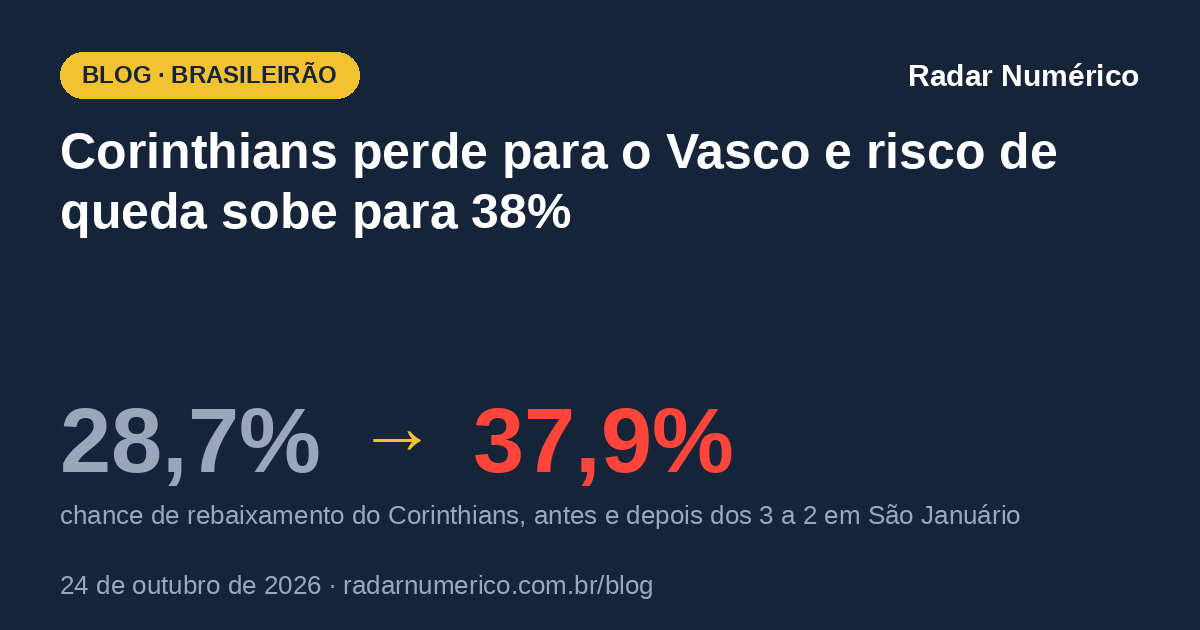
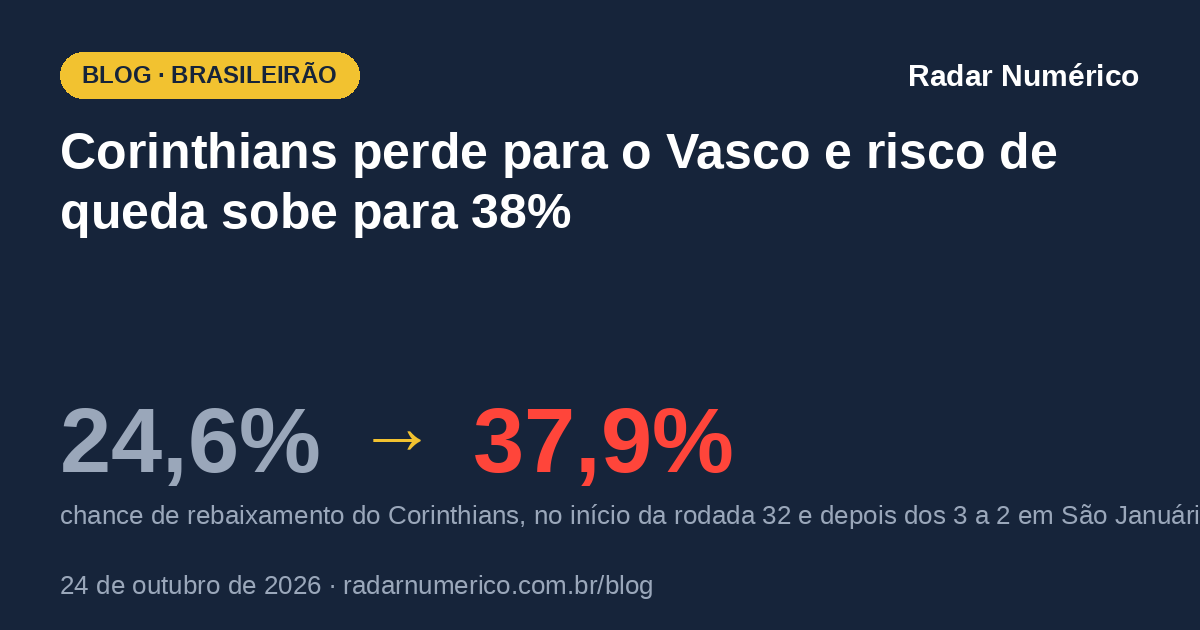
Blog: artigo Corinthians/Vasco compara com o inicio da rodada 32

Changed region(s): [[0.4317, 0.7841, 1.0, 0.8444], [0.0925, 0.6333, 0.2158, 0.754]]

diff --git a/blog/brasileirao/corinthians-vasco-rebaixamento/index.html b/blog/brasileirao/corinthians-vasco-rebaixamento/index.html
@@ -5,19 +5,19 @@
 <meta name="viewport" content="width=device-width, initial-scale=1">
 <meta name="robots" content="max-image-preview:large">
 <title>Corinthians perde para o Vasco e risco de queda sobe para 38%</title>
-<meta name="description" content="Vasco 3x2 Corinthians: o risco de queda do Corinthians vai de 28,7% para 37,9% e o do Vasco cai para 3,0%. Quantos pontos livram.">
+<meta name="description" content="Vasco 3x2 Corinthians: o risco de queda do Corinthians vai de 24,6% para 37,9% na rodada e o do Vasco cai a 3,0%. Quantos pontos livram.">
 <link rel="canonical" href="https://radarnumerico.com.br/blog/brasileirao/corinthians-vasco-rebaixamento/">
 <meta property="og:type" content="article">
 <meta property="og:site_name" content="Radar Numérico">
 <meta property="og:locale" content="pt_BR">
 <meta property="og:title" content="Corinthians perde para o Vasco e risco de queda sobe para 38%">
-<meta property="og:description" content="Vasco 3x2 Corinthians: o risco de queda do Corinthians vai de 28,7% para 37,9% e o do Vasco cai para 3,0%. Quantos pontos livram.">
+<meta property="og:description" content="Vasco 3x2 Corinthians: o risco de queda do Corinthians vai de 24,6% para 37,9% na rodada e o do Vasco cai a 3,0%. Quantos pontos livram.">
 <meta property="og:url" content="https://radarnumerico.com.br/blog/brasileirao/corinthians-vasco-rebaixamento/">
 <meta property="og:image" content="https://radarnumerico.com.br/blog/brasileirao/corinthians-vasco-rebaixamento/og.png">
 <meta property="og:image:width" content="1200">
 <meta property="og:image:height" content="630">
 <meta name="twitter:card" content="summary_large_image">
-<script type="application/ld+json">{"@context": "https://schema.org", "@type": "NewsArticle", "headline": "Corinthians perde para o Vasco e risco de queda sobe para 38%", "description": "Vasco 3x2 Corinthians: o risco de queda do Corinthians vai de 28,7% para 37,9% e o do Vasco cai para 3,0%. Quantos pontos livram.", "inLanguage": "pt-BR", "datePublished": "2026-10-24T21:30:00-03:00", "dateModified": "2026-10-24T21:30:00-03:00", "author": {"@type": "Organization", "name": "Radar Numérico", "url": "https://radarnumerico.com.br/"}, "publisher": {"@type": "Organization", "name": "Radar Numérico", "url": "https://radarnumerico.com.br/", "logo": {"@type": "ImageObject", "url": "https://radarnumerico.com.br/logo.png"}}, "mainEntityOfPage": "https://radarnumerico.com.br/blog/brasileirao/corinthians-vasco-rebaixamento/", "image": ["https://radarnumerico.com.br/blog/brasileirao/corinthians-vasco-rebaixamento/og.png"], "articleSection": "Brasileirão", "isPartOf": {"@type": "Blog", "name": "Blog do Radar Numérico", "url": "https://radarnumerico.com.br/blog/"}}</script>
+<script type="application/ld+json">{"@context": "https://schema.org", "@type": "NewsArticle", "headline": "Corinthians perde para o Vasco e risco de queda sobe para 38%", "description": "Vasco 3x2 Corinthians: o risco de queda do Corinthians vai de 24,6% para 37,9% na rodada e o do Vasco cai a 3,0%. Quantos pontos livram.", "inLanguage": "pt-BR", "datePublished": "2026-10-24T21:30:00-03:00", "dateModified": "2026-10-24T21:30:00-03:00", "author": {"@type": "Organization", "name": "Radar Numérico", "url": "https://radarnumerico.com.br/"}, "publisher": {"@type": "Organization", "name": "Radar Numérico", "url": "https://radarnumerico.com.br/", "logo": {"@type": "ImageObject", "url": "https://radarnumerico.com.br/logo.png"}}, "mainEntityOfPage": "https://radarnumerico.com.br/blog/brasileirao/corinthians-vasco-rebaixamento/", "image": ["https://radarnumerico.com.br/blog/brasileirao/corinthians-vasco-rebaixamento/og.png"], "articleSection": "Brasileirão", "isPartOf": {"@type": "Blog", "name": "Blog do Radar Numérico", "url": "https://radarnumerico.com.br/blog/"}}</script>
 <link rel="icon" type="image/png" href="/favicon.png">
 <link rel="apple-touch-icon" href="/apple-touch-icon.png">
 <link rel="preconnect" href="https://fonts.googleapis.com">
@@ -97,11 +97,11 @@ svg.pos .p1,.legenda i.p1{fill:var(--azul);background:var(--azul)}svg.pos .g6,.l
 <article>
 <div class="kicker"><a href="/blog/">Blog</a> · <a href="/blog/#brasileirao">Brasileirão</a></div>
 <h1>Corinthians perde para o Vasco e risco de queda sobe para 38%</h1>
-<p class="sub">A virada do Vasco no fim, por 3 a 2 em São Januário, levou o Corinthians de 28,7% para 37,9% de chance de rebaixamento, o maior valor do ano. O Vasco caiu de 8,9% para 3,0%.</p>
+<p class="sub">Na rodada 32, a chance de rebaixamento do Corinthians foi de 24,6% para 37,9%, o maior valor do ano; só a virada do Vasco no fim somou 9,2 pontos. O Vasco caiu de 7,4% para 3,0%.</p>
 <div class="byline"><span>Por <b>Equipe Radar Numérico</b></span><span>24 de outubro de 2026 às 21h30</span><span>Rodada 32</span></div>
 <p>O Vasco virou o jogo nos minutos finais e venceu o Corinthians por 3 a 2 em São Januário, na noite deste sábado (24/10), pela 32ª rodada. O Corinthians chegou a estar na frente no segundo tempo, mas sofreu dois gols de Marino Hinestroza, aos 43 e aos 45 minutos. A derrota manteve o time com 33 pontos, em 17º, dentro da zona de rebaixamento.</p>
-<p>Pelo modelo do Radar Numérico, a chance de rebaixamento do Corinthians subiu de 28,7% para <strong>37,9%</strong>: 9,2 pontos percentuais a mais em um jogo. Do outro lado, o Vasco chegou a 38 pontos e viu o risco cair de 8,9% para <strong>3,0%</strong>.</p>
-<figure class="graf"><figcaption><b>Chance de rebaixamento antes e depois de Palmeiras 2×0 Bragantino</b><span>Quem já está matematicamente rebaixado fica de fora. Barra clara: antes · barra escura: depois.</span></figcaption><div class="barras dupla"><div class="nome"><small>18º</small><span class="esc"><i style="background:#0099DC;color:#fff;border-color:#111111">GRE</i></span>Grêmio</div><div class="trilhos"><div class="trilho"><div class="fill antes" style="width:83.7%"></div></div><div class="trilho"><div class="fill" style="width:83.4%"></div></div></div><div class="val"><small>83,7%</small>83,4%<span class="chip bom">−0,3 p.p.</span></div><div class="nome"><small>17º</small><span class="esc"><i style="background:#111111;color:#fff;border-color:#FFFFFF">COR</i></span>Corinthians</div><div class="trilhos"><div class="trilho"><div class="fill antes" style="width:28.7%"></div></div><div class="trilho"><div class="fill" style="width:37.9%"></div></div></div><div class="val"><small>28,7%</small>37,9%<span class="chip ruim">+9,2 p.p.</span></div><div class="nome"><small>16º</small><span class="esc"><i style="background:#E30613;color:#fff;border-color:#FFFFFF">INT</i></span>Internacional</div><div class="trilhos"><div class="trilho"><div class="fill antes" style="width:31.8%"></div></div><div class="trilho"><div class="fill" style="width:30.7%"></div></div></div><div class="val"><small>31,8%</small>30,7%<span class="chip bom">−1,1 p.p.</span></div><div class="nome"><small>15º</small><span class="esc"><i style="background:#FFD200;color:#15171C;border-color:#008A3E">MIR</i></span>Mirassol</div><div class="trilhos"><div class="trilho"><div class="fill antes" style="width:20.1%"></div></div><div class="trilho"><div class="fill" style="width:19.4%"></div></div></div><div class="val"><small>20,1%</small>19,4%<span class="chip bom">−0,7 p.p.</span></div><div class="nome"><small>14º</small><span class="esc"><i style="background:#E30613;color:#fff;border-color:#111111">VIT</i></span>Vitória</div><div class="trilhos"><div class="trilho"><div class="fill antes" style="width:13.6%"></div></div><div class="trilho"><div class="fill" style="width:12.8%"></div></div></div><div class="val"><small>13,6%</small>12,8%<span class="chip bom">−0,7 p.p.</span></div><div class="nome"><small>12º</small><span class="esc"><i style="background:#006E4C;color:#fff;border-color:#FFFFFF">CFC</i></span>Coritiba</div><div class="trilhos"><div class="trilho"><div class="fill antes" style="width:9.9%"></div></div><div class="trilho"><div class="fill" style="width:9.4%"></div></div></div><div class="val"><small>9,9%</small>9,4%<span class="chip bom">−0,5 p.p.</span></div><div class="nome"><small>11º</small><span class="esc"><i style="background:#111111;color:#fff;border-color:#FFFFFF">BOT</i></span>Botafogo</div><div class="trilhos"><div class="trilho"><div class="fill antes" style="width:3.4%"></div></div><div class="trilho"><div class="fill" style="width:3.4%"></div></div></div><div class="val"><small>3,4%</small>3,4%</div><div class="nome"><small>13º</small><span class="esc"><i style="background:#FFFFFF;color:#15171C;border-color:#111111">VAS</i></span>Vasco</div><div class="trilhos"><div class="trilho"><div class="fill antes" style="width:8.9%"></div></div><div class="trilho"><div class="fill" style="width:3.0%"></div></div></div><div class="val"><small>8,9%</small>3,0%<span class="chip bom">−5,9 p.p.</span></div></div></figure>
+<p>Pelo modelo do Radar Numérico, a chance de rebaixamento do Corinthians foi de 24,6%, no início da rodada, para <strong>37,9%</strong>: 13,3 pontos percentuais a mais. Os jogos da tarde, com a vitória do Internacional sobre o Botafogo, já tinham levado o risco a 28,7%; a derrota em São Januário somou outros 9,2 pontos. Do outro lado, o Vasco chegou a 38 pontos e viu o risco cair de 7,4%, no início da rodada, para <strong>3,0%</strong>.</p>
+<figure class="graf"><figcaption><b>Chance de rebaixamento no início da rodada 32 e agora</b><span>Quem já está matematicamente rebaixado fica de fora. Barra clara: antes da rodada 32 · barra escura: atualização de 24/10 às 20h55.</span></figcaption><div class="barras dupla"><div class="nome"><small>18º</small><span class="esc"><i style="background:#0099DC;color:#fff;border-color:#111111">GRE</i></span>Grêmio</div><div class="trilhos"><div class="trilho"><div class="fill antes" style="width:84.0%"></div></div><div class="trilho"><div class="fill" style="width:83.4%"></div></div></div><div class="val"><small>84,0%</small>83,4%<span class="chip bom">−0,6 p.p.</span></div><div class="nome"><small>17º</small><span class="esc"><i style="background:#111111;color:#fff;border-color:#FFFFFF">COR</i></span>Corinthians</div><div class="trilhos"><div class="trilho"><div class="fill antes" style="width:24.6%"></div></div><div class="trilho"><div class="fill" style="width:37.9%"></div></div></div><div class="val"><small>24,6%</small>37,9%<span class="chip ruim">+13,3 p.p.</span></div><div class="nome"><small>16º</small><span class="esc"><i style="background:#E30613;color:#fff;border-color:#FFFFFF">INT</i></span>Internacional</div><div class="trilhos"><div class="trilho"><div class="fill antes" style="width:48.3%"></div></div><div class="trilho"><div class="fill" style="width:30.7%"></div></div></div><div class="val"><small>48,3%</small>30,7%<span class="chip bom">−17,6 p.p.</span></div><div class="nome"><small>15º</small><span class="esc"><i style="background:#FFD200;color:#15171C;border-color:#008A3E">MIR</i></span>Mirassol</div><div class="trilhos"><div class="trilho"><div class="fill antes" style="width:14.6%"></div></div><div class="trilho"><div class="fill" style="width:19.4%"></div></div></div><div class="val"><small>14,6%</small>19,4%<span class="chip ruim">+4,7 p.p.</span></div><div class="nome"><small>14º</small><span class="esc"><i style="background:#E30613;color:#fff;border-color:#111111">VIT</i></span>Vitória</div><div class="trilhos"><div class="trilho"><div class="fill antes" style="width:10.5%"></div></div><div class="trilho"><div class="fill" style="width:12.8%"></div></div></div><div class="val"><small>10,5%</small>12,8%<span class="chip ruim">+2,3 p.p.</span></div><div class="nome"><small>12º</small><span class="esc"><i style="background:#006E4C;color:#fff;border-color:#FFFFFF">CFC</i></span>Coritiba</div><div class="trilhos"><div class="trilho"><div class="fill antes" style="width:8.6%"></div></div><div class="trilho"><div class="fill" style="width:9.4%"></div></div></div><div class="val"><small>8,6%</small>9,4%<span class="chip ruim">+0,8 p.p.</span></div><div class="nome"><small>11º</small><span class="esc"><i style="background:#111111;color:#fff;border-color:#FFFFFF">BOT</i></span>Botafogo</div><div class="trilhos"><div class="trilho"><div class="fill antes" style="width:2.1%"></div></div><div class="trilho"><div class="fill" style="width:3.4%"></div></div></div><div class="val"><small>2,1%</small>3,4%<span class="chip ruim">+1,3 p.p.</span></div><div class="nome"><small>13º</small><span class="esc"><i style="background:#FFFFFF;color:#15171C;border-color:#111111">VAS</i></span>Vasco</div><div class="trilhos"><div class="trilho"><div class="fill antes" style="width:7.4%"></div></div><div class="trilho"><div class="fill" style="width:3.0%"></div></div></div><div class="val"><small>7,4%</small>3,0%<span class="chip bom">−4,5 p.p.</span></div></div></figure>
 
 <h2>O que o jogo valia</h2>
 <p>Antes da bola rolar, o Vasco vencia em 47,1% das simulações, e o Corinthians, em 25,7%. Para o Corinthians, a diferença entre os resultados era enorme: com vitória, o risco cairia para 11,6%; com empate, ficaria em 28,7%; com derrota, ia para 38,0%. Veio o pior cenário, e no fim.</p>
